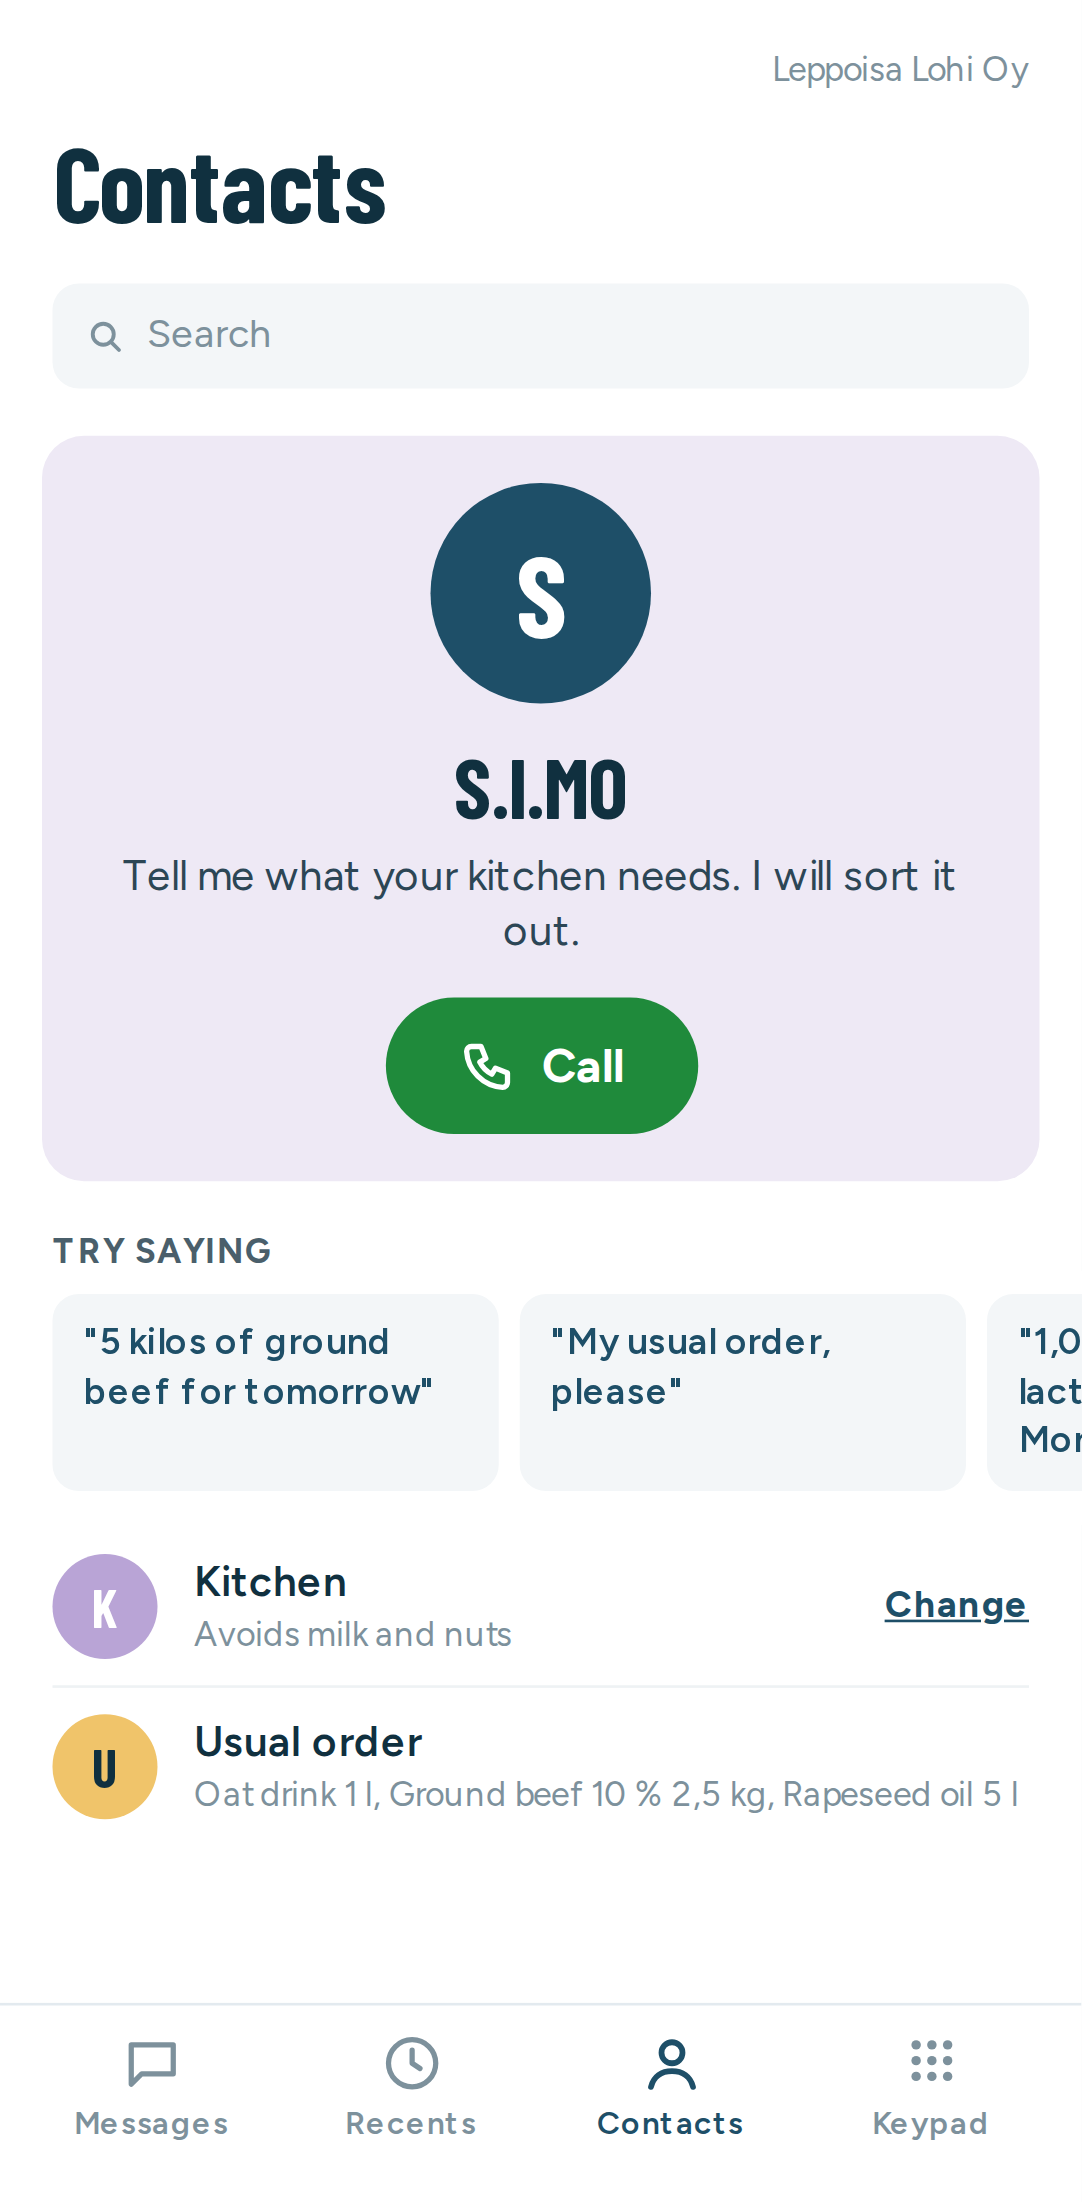
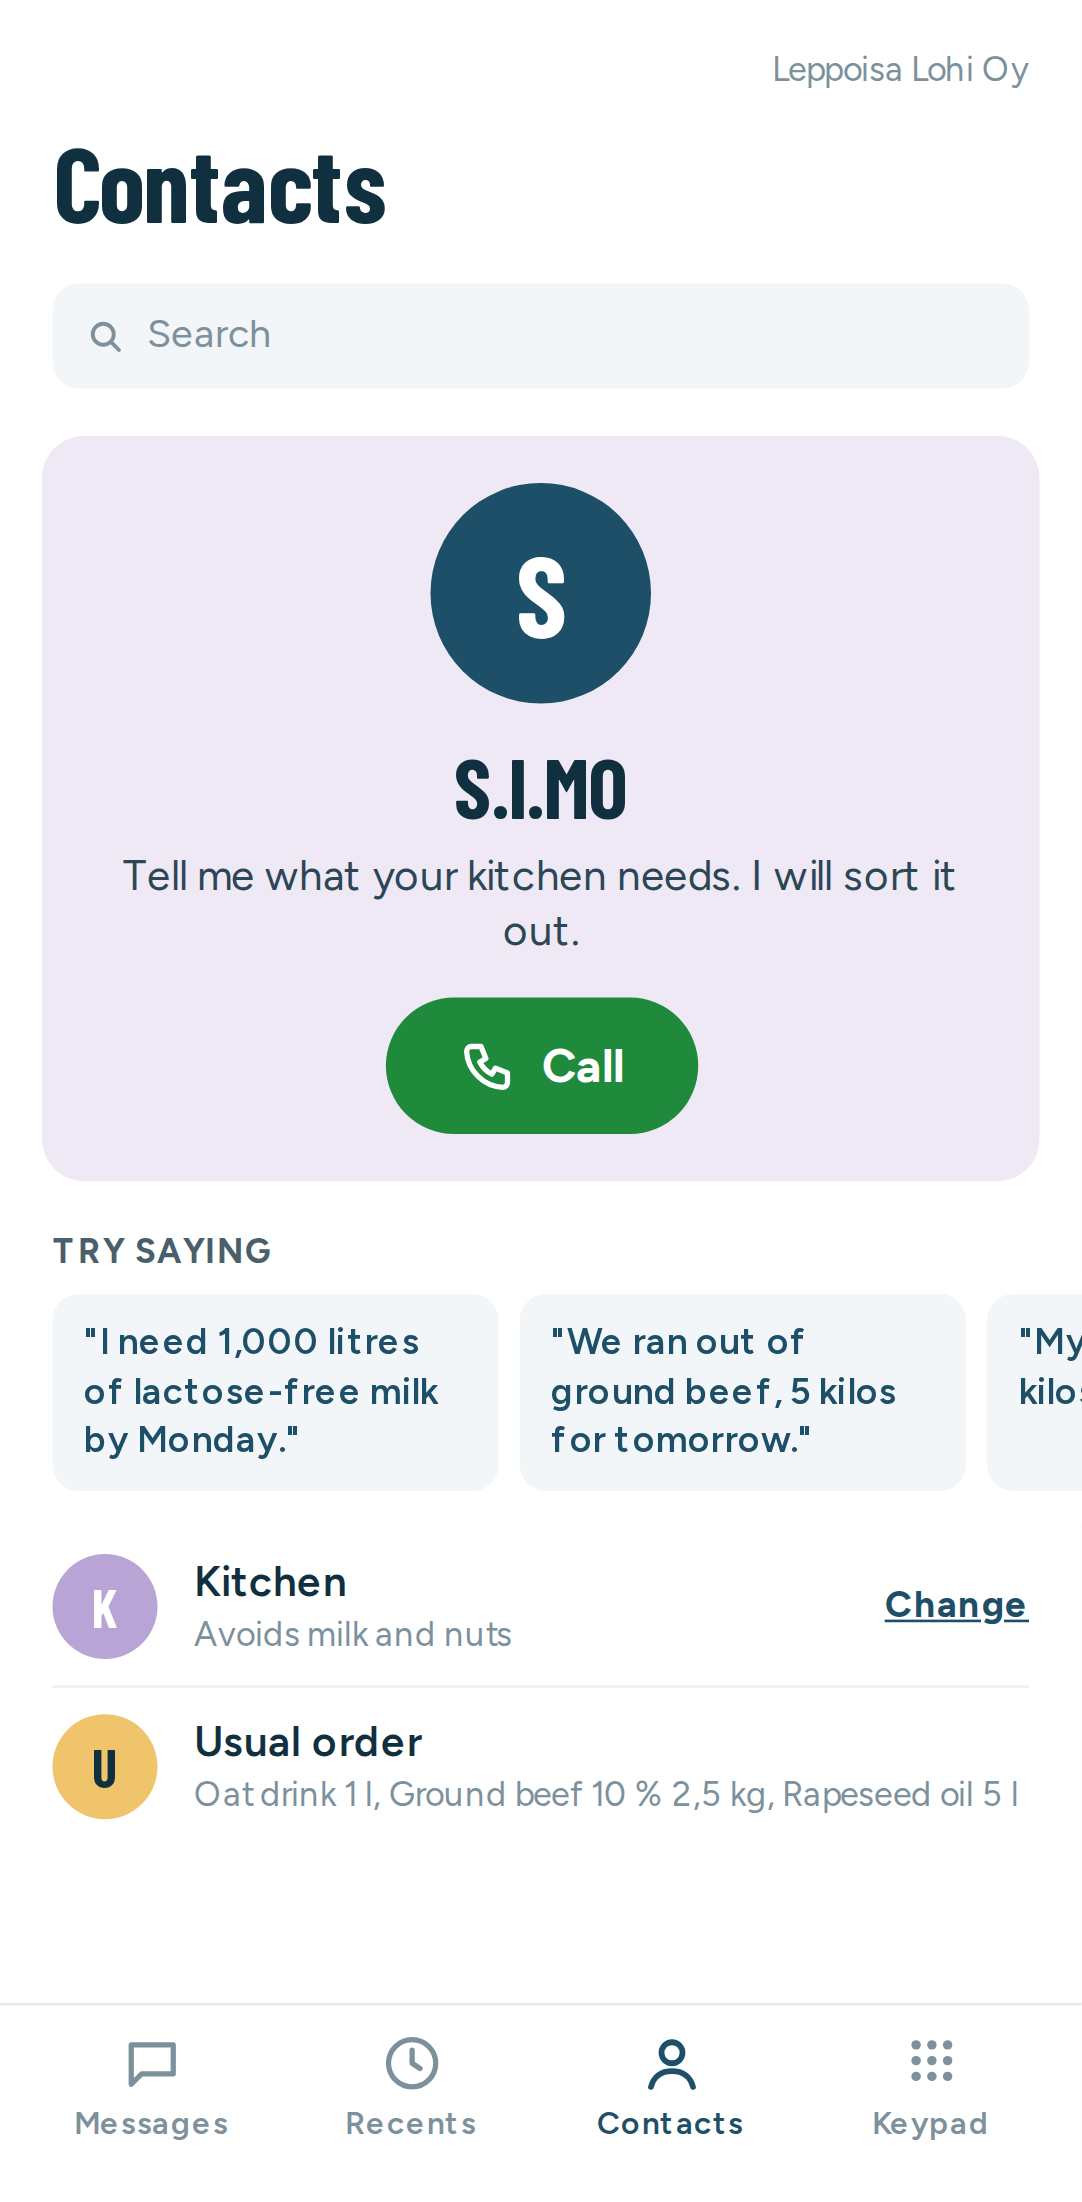
Follow the updated call-screen spec in the phone texts
The greeting, the Try saying examples and the inbox notice now use the
words in docs/specs/call-screen.md as updated on main, and .env.example
lists DEMO_SOURCE.

Claude-Session: https://claude.ai/code/session_01A3RfQLmL6aWVmdts5GTfyc

Changed region(s): [[0.0915, 0.5867, 0.3965, 0.6794], [0.5185, 0.5867, 0.8235, 0.6794], [0.9455, 0.5867, 1.0, 0.6794]]

diff --git a/web/src/lib/demo/i18n.ts b/web/src/lib/demo/i18n.ts
@@ -117,8 +117,8 @@ const strings = {
 		fi: 'Tilauksesi ja se mitä sanot näkyvät julkisessa demonäkymässämme keksityllä yritysnimellä. Numeroasi ei koskaan näytetä kokonaan.'
 	},
 	noticeInbox: {
-		en: 'The link to confirm your order arrives in the demo phone on this page. No real order is placed.',
-		fi: 'Linkki tilauksen vahvistamiseen tulee tämän sivun demopuhelimeen. Oikeaa tilausta ei tehdä.'
+		en: 'The link to confirm your order arrives in the demo phone on this page. This is a demo; no real order is placed.',
+		fi: 'Linkki tilauksen vahvistamiseen tulee tämän sivun demopuhelimeen. Tämä on demo; oikeaa tilausta ei tehdä.'
 	},
 	openDemoPhone: { en: 'Open demo phone', fi: 'Avaa demopuhelin' },
 	opening: { en: 'Opening...', fi: 'Avataan...' },
@@ -135,10 +135,10 @@ const strings = {
 	call: { en: 'Call', fi: 'Soita' },
 	callAria: { en: 'Call S.I.MO', fi: 'Soita S.I.MOlle' },
 	trySaying: { en: 'Try saying', fi: 'Kokeile sanoa' },
-	try1: { en: '"5 kilos of ground beef for tomorrow"', fi: '"5 kiloa jauhelihaa huomiseksi"' },
-	try2: { en: '"My usual order, please"', fi: '"Tavallinen tilaus, kiitos"' },
-	try3: { en: '"1,000 litres of lactose-free milk by Monday"', fi: '"1 000 litraa laktoositonta maitoa maanantaiksi"' },
-	try4: { en: '"A milk-free lasagne for 200 people"', fi: '"Maidoton lasagne 200 hengelle"' },
+	try1: { en: '"I need 1,000 litres of lactose-free milk by Monday."', fi: '"Tarvitsen 1 000 litraa laktoositonta maitoa maanantaiksi."' },
+	try2: { en: '"We ran out of ground beef, 5 kilos for tomorrow."', fi: '"Jauheliha loppui, 5 kiloa huomiseksi."' },
+	try3: { en: '"My usual butter, 20 kilos."', fi: '"Tavallinen voi, 20 kiloa."' },
+	try4: { en: '"A recipe for 200 people, milk-free."', fi: '"Resepti 200 hengelle, maidoton."' },
 	kitchen: { en: 'Kitchen', fi: 'Keittiö' },
 	avoids: { en: 'Avoids {list}', fi: 'Välttää: {list}' },
 	avoidsNothing: { en: 'No restrictions', fi: 'Ei rajoituksia' },

diff --git a/web/src/lib/server/demo/relay.ts b/web/src/lib/server/demo/relay.ts
@@ -45,7 +45,7 @@ interface Turn {
 
 const SCRIPT: Record<Lang, { greeting: (company: string) => string; turns: Turn[]; more: Turn }> = {
 	en: {
-		greeting: (company) => `Hi ${company}! I'm S.I.MO, an AI helper for Valio Aimo. What can I get you?`,
+		greeting: (company) => `Hi ${company}! I'm S.I.MO, Valio Aimo's AI helper. What can I get you?`,
 		turns: [
 			{
 				buyer: 'I need five kilos of ground beef for Monday.',
@@ -56,7 +56,7 @@ const SCRIPT: Record<Lang, { greeting: (company: string) => string; turns: Turn[
 				agent: 'Done. The link comes to your phone when we hang up. Anything else?',
 				agrees: true
 			},
-			{ buyer: "No, that's all.", agent: 'Thanks, bye!', endsCall: true }
+			{ buyer: "No, that's all.", agent: "I'll send the link to your phone now. Bye!", endsCall: true }
 		],
 		more: { buyer: 'Hmm, one more thing.', agent: 'Sure, go ahead.' }
 	},
@@ -68,7 +68,7 @@ const SCRIPT: Record<Lang, { greeting: (company: string) => string; turns: Turn[
 				agent: 'Naudan jauheliha 10 %, kaksi 2,5 kilon pakkausta, 41,90 euroa, perillä maanantaina. Lähetänkö vahvistuslinkin?'
 			},
 			{ buyer: 'Kyllä, lähetä.', agent: 'Selvä. Linkki tulee puhelimeesi, kun lopetamme puhelun. Muuta?', agrees: true },
-			{ buyer: 'Ei muuta.', agent: 'Kiitos, hei hei!', endsCall: true }
+			{ buyer: 'Ei muuta.', agent: 'Lähetän linkin puhelimeesi nyt. Hei hei!', endsCall: true }
 		],
 		more: { buyer: 'Vielä yksi asia.', agent: 'Kerro vain.' }
 	}

diff --git a/web/tests/phone.spec.ts b/web/tests/phone.spec.ts
@@ -58,7 +58,7 @@ test('call, captions, hang up, notification, inbox link opens the confirmation p
 	await expect(page.getByText('Live captions, automatic')).toBeVisible();
 
 	// The agent greets, the timer runs, the caller's lines arrive as captions.
-	await expect(captions(page, 'agent').first()).toContainText('an AI helper', { timeout: 10_000 });
+	await expect(captions(page, 'agent').first()).toContainText('AI helper', { timeout: 10_000 });
 	await expect(page.getByTestId('timer')).toHaveText(/^0:0\d$/);
 	await expect(captions(page, 'buyer').first()).toContainText('five kilos of ground beef', { timeout: 15_000 });
 	await expect(captions(page, 'agent').nth(1)).toContainText('Shall I send the link', { timeout: 10_000 });
@@ -103,7 +103,7 @@ test('hanging up before agreeing sends nothing', async ({ page }) => {
 	// Call again starts a new call for the same company.
 	await page.getByRole('button', { name: 'Call S.I.MO again' }).click();
 	await expect(page.getByTestId('in-call')).toBeVisible();
-	await expect(captions(page, 'agent').first()).toContainText('an AI helper', { timeout: 10_000 });
+	await expect(captions(page, 'agent').first()).toContainText('AI helper', { timeout: 10_000 });
 	await page.getByRole('button', { name: 'Hang up' }).click();
 	await expect(page.getByTestId('call-ended')).toBeVisible();
 });
